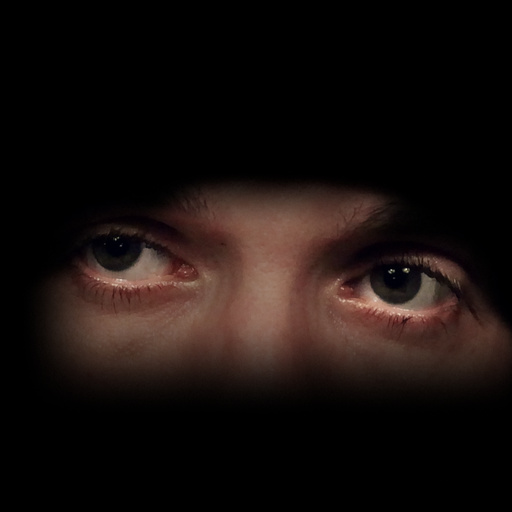
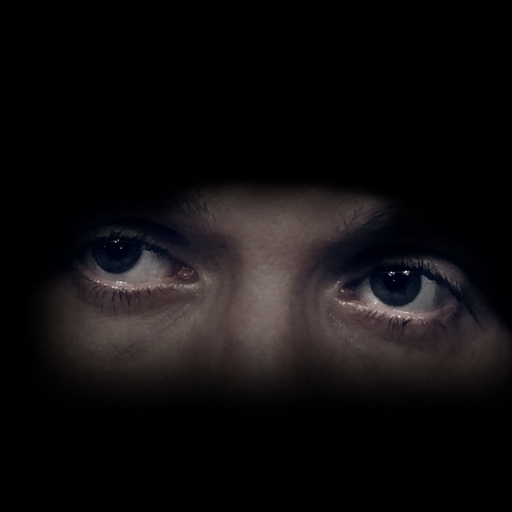
Ship Steel eyes art

Changed region(s): [[0.125, 0.375, 1.0, 0.6875]]

diff --git a/sw.js b/sw.js
@@ -1,5 +1,5 @@
 /* Stark Showcase service worker: caches only this folder's own files. */
-const V = "show-art20261122", FILES = ['./', 'index.html', 'css/show.css', 'js/show.js', 'img/eyes.jpg', 'img/cov-patients.png', 'img/cov-chart.png', 'img/cov-emergency.png', 'img/cov-emergency-phone.png', 'img/cov-outcomes.png', 'img/cov-todo.png', 'img/cov-safety.png', 'clips/math-sim.mp4', 'clips/warden-call.mp4'];
+const V = "show-steel20261122", FILES = ['./', 'index.html', 'css/show.css', 'js/show.js', 'img/eyes.jpg', 'img/cov-patients.png', 'img/cov-chart.png', 'img/cov-emergency.png', 'img/cov-emergency-phone.png', 'img/cov-outcomes.png', 'img/cov-todo.png', 'img/cov-safety.png', 'clips/math-sim.mp4', 'clips/warden-call.mp4'];
 self.addEventListener("install", e => { self.skipWaiting(); e.waitUntil(caches.open(V).then(c => Promise.all(FILES.map(f => c.add(f).catch(() => 0))))); });
 self.addEventListener("activate", e => { e.waitUntil(caches.keys().then(k => Promise.all(k.filter(x => x !== V).map(x => caches.delete(x)))).then(() => self.clients.claim())); });
 self.addEventListener("fetch", e => {
